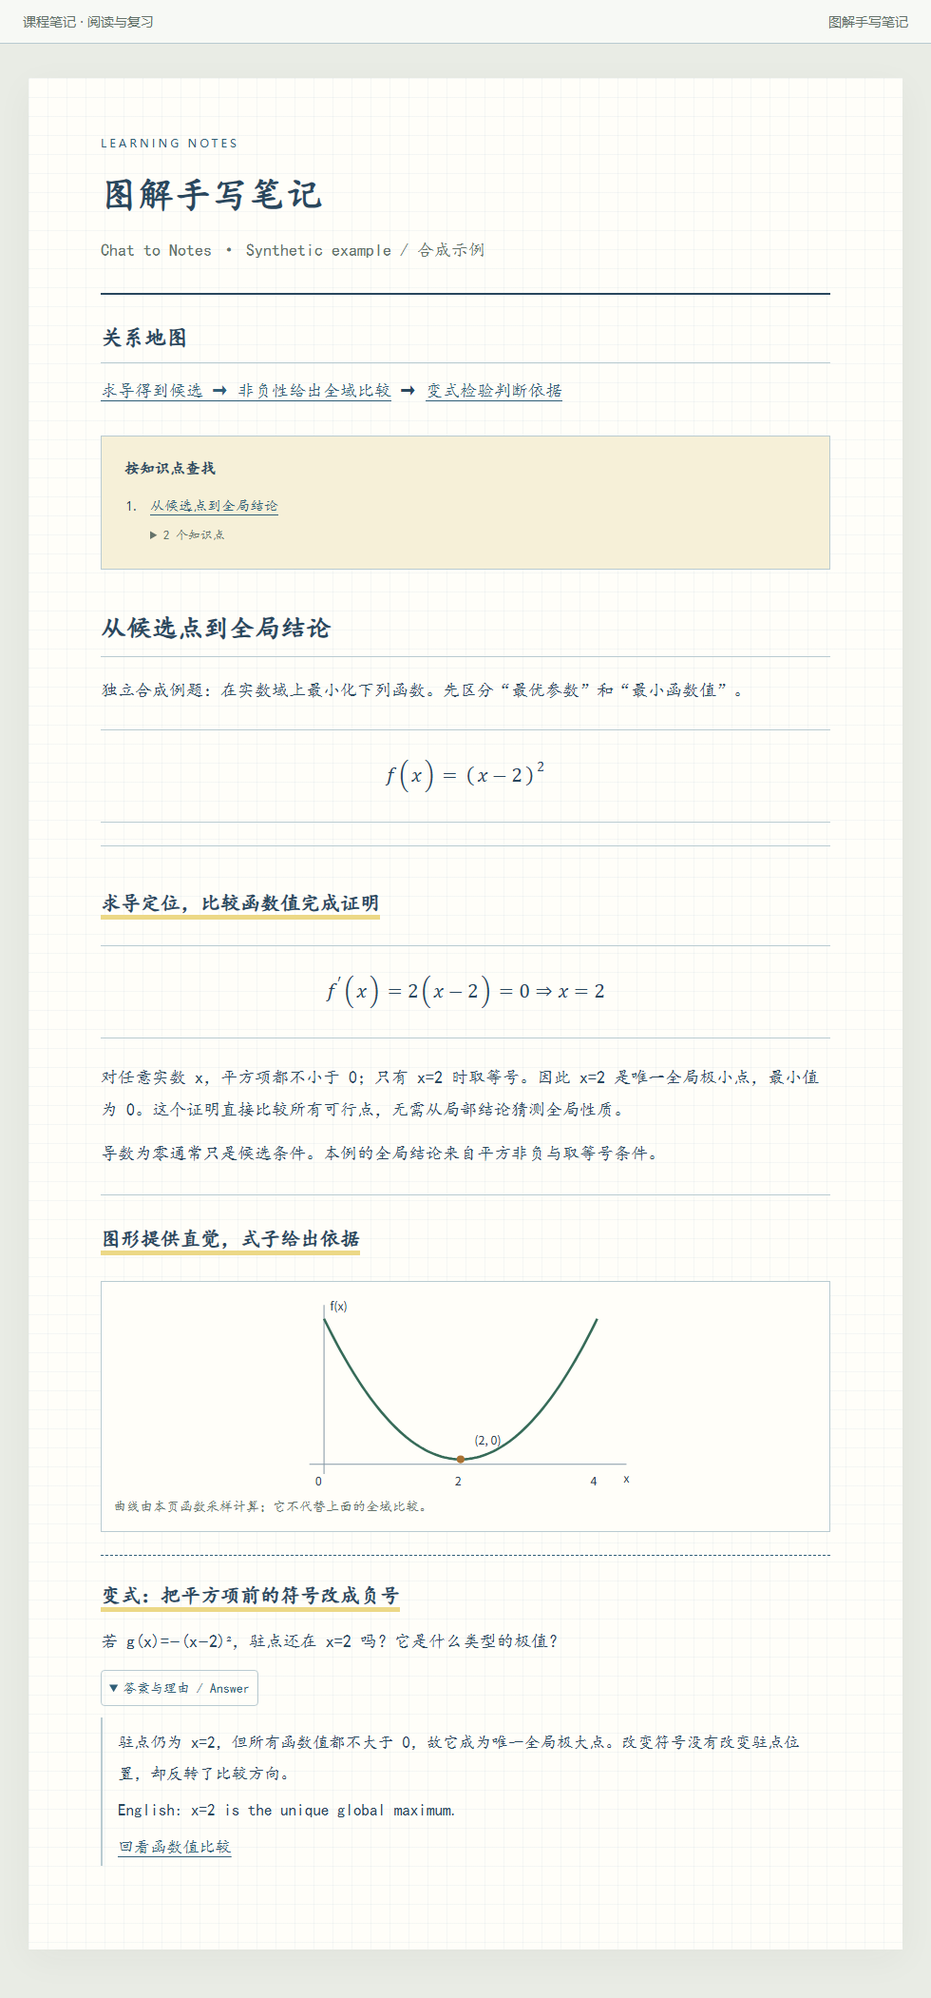
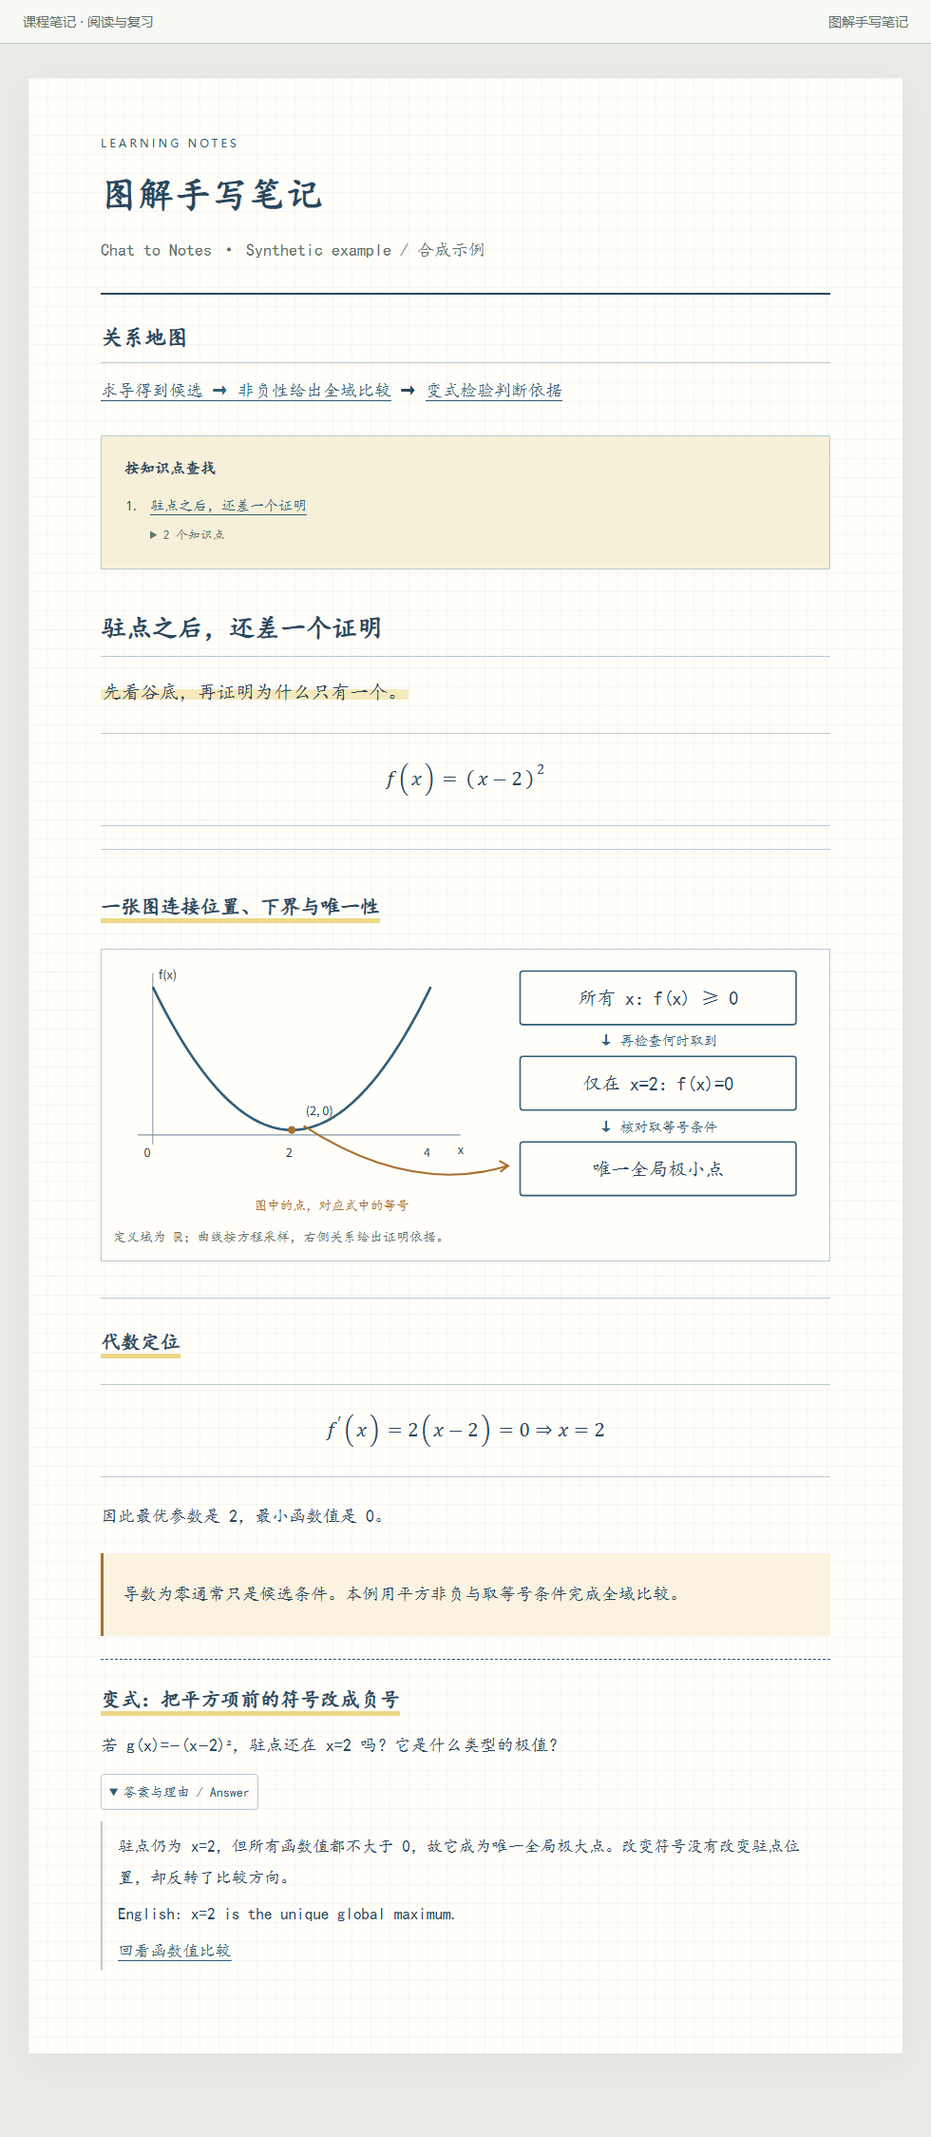
docs: showcase distinct reading structures in six style previews

diff --git a/examples/build_demo.py b/examples/build_demo.py
@@ -17,29 +17,54 @@ def formula(content):
 def example_body(style):
     model = formula('<mrow><mi>f</mi><mo>(</mo><mi>x</mi><mo>)</mo><mo>=</mo><msup><mrow><mo>(</mo><mi>x</mi><mo>−</mo><mn>2</mn><mo>)</mo></mrow><mn>2</mn></msup></mrow>')
     derivative = formula('<mrow><msup><mi>f</mi><mo>′</mo></msup><mo>(</mo><mi>x</mi><mo>)</mo><mo>=</mo><mn>2</mn><mo>(</mo><mi>x</mi><mo>−</mo><mn>2</mn><mo>)</mo><mo>=</mo><mn>0</mn><mo>⇒</mo><mi>x</mi><mo>=</mo><mn>2</mn></mrow>')
-    proof = '<p>对任意实数 x，平方项都不小于 0；只有 x=2 时取等号。因此 x=2 是唯一全局极小点，最小值为 0。这个证明直接比较所有可行点，无需从局部结论猜测全局性质。</p>'
-    body = '<h2 id="problem">从候选点到全局结论</h2><p>独立合成例题：在实数域上最小化下列函数。先区分“最优参数”和“最小函数值”。</p>' + model
-    explanation = '<h3 id="solve">求导定位，比较函数值完成证明</h3>' + derivative + proof
-    cue = '<p>梯度为零得到了什么？哪一步比较了整个定义域？</p>'
-    boundary = '<p>导数为零通常只是候选条件。本例的全局结论来自平方非负与取等号条件。</p>'
-    if style == 'cornell':
-        body += '<div class="note-unit"><aside class="cue">' + cue + '</aside><div class="note-main">' + explanation + '</div><div class="note-summary">' + boundary + '</div></div>'
-    elif style == 'outline':
-        body += '<div class="outline-unit">' + explanation + boundary + '</div>'
-    elif style == 'annotated':
-        body += '<div class="annotated-example"><div class="example-steps">' + explanation + '</div><aside class="margin-note">' + boundary + '</aside></div>'
-    elif style == 'sketch':
-        body += '<div class="visual-explanation">' + explanation + boundary + '</div>'
-    else:
-        body += explanation + '<div class="caution">' + boundary + '</div>'
+    proof = '<p>对任意实数 x，平方项都不小于 0；只有 x=2 时取等号。因此 x=2 是唯一全局极小点，最小值为 0。</p>'
+    boundary = '<p>导数为零通常只是候选条件。本例用平方非负与取等号条件完成全域比较。</p>'
     points = ' '.join(f'{40 + x * 70:.2f},{170 - 36 * (x - 2)**2:.2f}' for x in [i / 25 for i in range(101)])
-    body += '<h3 id="geometry">图形提供直觉，式子给出依据</h3>'
-    body += f'''<figure><svg viewBox="0 0 370 205" role="img" aria-label="Parabola f(x)=(x-2)^2, with its minimum at x=2" style="display:block;width:380px;margin:auto">
+    curve = f'''<svg viewBox="0 0 370 205" role="img" aria-label="Parabola f(x)=(x-2)^2, with its minimum at x=2" style="display:block;width:340px;margin:auto">
 <path d="M25 175H350 M40 185V12" fill="none" stroke="#8598a6"/>
-<polyline points="{points}" fill="none" stroke="#366b58" stroke-width="2.5"/>
+<polyline points="{points}" fill="none" stroke="var(--accent)" stroke-width="2.5"/>
 <circle cx="180" cy="170" r="4" fill="#a97131"/>
 <g font-size="12" font-family="sans-serif" fill="#26364a"><text x="174" y="197">2</text><text x="31" y="197">0</text><text x="313" y="197">4</text><text x="347" y="194">x</text><text x="46" y="18">f(x)</text><text x="194" y="155">(2, 0)</text></g></svg>
-<figcaption>曲线由本页函数采样计算；它不代替上面的全域比较。</figcaption></figure>'''
+'''
+    figure = '<h3 id="geometry">几何核对</h3><figure>' + curve + '<figcaption>曲线由函数采样计算；谷底位置与代数结果一致。</figcaption></figure>'
+    title = '<h2 id="problem">驻点之后，还差一个证明</h2>'
+    if style == 'cornell':
+        body = title + '<p class="source-label">复习方法：遮住右栏，用左栏问题重建推导。</p>'
+        body += '<div class="note-unit"><aside class="cue"><strong>01 · 求什么？</strong><p>参数与评分有什么区别？</p></aside><div class="note-main"><strong>先分清问题</strong><p>在实数域上最小化 f。x 是可选参数，f(x) 是比较方案的评分。</p>' + model + '</div></div>'
+        body += '<div class="note-unit"><aside class="cue"><strong>02 · 如何定位？</strong><p>导数为零足够吗？</p></aside><div class="note-main"><h3 id="solve">先求候选点</h3>' + derivative + '<p>得到 x=2，此时还没有完成极值判定。</p></div></div>'
+        body += '<div class="note-unit"><aside class="cue"><strong>03 · 凭何全局？</strong><p>哪个条件证明唯一？</p></aside><div class="note-main"><strong>比较整个定义域</strong>' + proof + '</div><div class="note-summary"><strong>回忆线索：</strong>候选点 → 全域下界 → 唯一取等号条件。</div></div>' + figure
+    elif style == 'outline':
+        body = title + '<div class="outline-unit"><h3 id="setup">1　问题与前提</h3><ol><li><strong>定义域：</strong>x ∈ ℝ，可行点没有边界。</li><li><strong>目标：</strong>找最优参数及最小函数值。' + model + '</li></ol>'
+        body += '<div class="outline-unit"><h3 id="solve">2　求解与判定</h3><ol><li><strong>候选条件</strong>' + derivative + '</li><li><strong>全局证据</strong><ul><li>下界：平方项对所有 x 非负。</li><li>取等号：仅当 x=2。</li></ul></li><li><strong>结论：</strong>x=2 是唯一全局极小点，最小值为 0。</li></ol></div>'
+        body += '<h3 id="boundary">3　使用边界</h3>' + boundary + '</div>' + figure
+    elif style == 'annotated':
+        body = title + '<p class="module-context">例题：在 ℝ 上最小化 f。左边完成解题，右边核对每步依据。</p>'
+        body += '<div class="annotated-example"><div class="example-steps"><strong>① 写清目标</strong>' + model + '</div><aside class="margin-note"><strong>↖ 对象</strong><p>x 是参数，f(x) 是评分，二者不能混写。</p></aside></div>'
+        body += '<div class="annotated-example"><div class="example-steps"><h3 id="solve">② 求驻点</h3>' + derivative + '</div><aside class="margin-note"><strong>↖ 必要条件</strong><p>得到候选位置；导数为零尚不能判定极值类型。</p></aside></div>'
+        body += '<div class="annotated-example"><div class="example-steps"><strong>③ 证明并作答</strong>' + proof + '</div><aside class="margin-note"><strong>↖ 关键一步</strong><p>“对所有 x”给出全局性；“仅当”给出唯一性。</p></aside></div>' + figure
+    elif style == 'sketch':
+        body = title + '<p class="lead"><mark>先看谷底，再证明为什么只有一个。</mark></p>' + model
+        # The graph and the proof path share a figure so their relationship is
+        # visible at a glance. Plot points still come from the same equation.
+        diagram = curve.replace('viewBox="0 0 370 205"','viewBox="0 0 710 265"').replace('width:340px','width:100%').replace('</svg>', '''
+<g fill="var(--paper)" stroke="var(--accent)" stroke-width="1.5"><rect x="410" y="10" width="278" height="54" rx="3"/><rect x="410" y="96" width="278" height="54" rx="3"/><rect x="410" y="182" width="278" height="54" rx="3"/></g>
+<g fill="var(--ink)" font-size="19" font-family="KaiTi,STKaiti,serif" text-anchor="middle"><text x="549" y="44">所有 x：f(x) ≥ 0</text><text x="549" y="130">仅在 x=2：f(x)=0</text><text x="549" y="216">唯一全局极小点</text></g>
+<g fill="var(--accent)" font-size="14" text-anchor="middle"><text x="549" y="85">↓ 再检查何时取到</text><text x="549" y="172">↓ 核对取等号条件</text></g>
+<path d="M192 166Q300 236 398 206" fill="none" stroke="#a97131" stroke-width="2"/><path d="M389 201L398 206L390 212" fill="none" stroke="#a97131" stroke-width="2"/>
+<text x="220" y="251" text-anchor="middle" fill="#a97131" font-size="13" font-family="KaiTi,STKaiti,serif">图中的点，对应式中的等号</text></svg>''')
+        body += '<div class="visual-explanation"><h3 id="geometry">一张图连接位置、下界与唯一性</h3><figure>' + diagram + '<figcaption>定义域为 ℝ；曲线按方程采样，右侧关系给出证明依据。</figcaption></figure></div>'
+        body += '<h3 id="solve">代数定位</h3>' + derivative + '<p>因此最优参数是 2，最小函数值是 0。</p><div class="caution">' + boundary + '</div>'
+    elif style == 'handwritten':
+        body = title + '<p class="lead">先记住：<mark>找到驻点，还要说明它为什么最好。</mark></p>'
+        body += '<p>题目是在实数域上最小化下面的函数。x 是我们要找的参数，f(x) 是它的评分。</p>' + model
+        body += '<h3 id="solve">第一步，求出候选位置</h3>' + derivative
+        body += '<p>到这里先别急着写“最小”。接着看原式：<mark>平方项永远非负</mark>，而 x=2 恰好让它等于零。</p>'
+        body += '<div class="worked-example"><strong>所以，答案要分开写</strong><p>最优参数 x*=2；最小函数值 f(x*)=0。</p><p>只有 x=2 能取到这个下界，因此全局极小点是唯一的。</p></div>' + figure
+    else:
+        body = title + '<p class="module-context">目标：在 x ∈ ℝ 上确定最优参数与最小函数值。</p>' + model
+        body += '<h3 id="solve">计算候选点</h3>' + derivative
+        body += '<table><thead><tr><th>判定事项</th><th>依据</th><th>结论</th></tr></thead><tbody><tr><td>候选位置</td><td>一阶导数为零</td><td>x=2</td></tr><tr><td>全局最小值</td><td>对所有 x，f(x)≥0</td><td>下界为 0</td></tr><tr><td>唯一性</td><td>仅在 x=2 取等号</td><td>唯一全局极小点</td></tr></tbody></table>'
+        body += '<div class="question"><strong>结果</strong><p>最优参数为 2；最小函数值为 0。</p></div><p class="source-label">适用边界：驻点方程负责定位，全局结论由函数值比较建立。</p>' + figure
     body += '''<div class="retrieval"><h3 id="practice-review">变式：把平方项前的符号改成负号</h3>
 <p>若 g(x)=−(x−2)²，驻点还在 x=2 吗？它是什么类型的极值？</p>
 <details class="answer"><summary>答案与理由 / Answer</summary><div class="answer-body"><p>驻点仍为 x=2，但所有函数值都不大于 0，故它成为唯一全局极大点。改变符号没有改变驻点位置，却反转了比较方向。</p><p>English: x=2 is the unique global maximum.</p><a href="#solve">回看函数值比较</a></div></details></div>'''

diff --git a/examples/capture_previews.py b/examples/capture_previews.py
@@ -1,4 +1,4 @@
-"""Capture actual Skill HTML without replacing its typography or layout CSS."""
+"""Capture full Skill pages and characteristic body excerpts without CSS overrides."""
 import argparse
 import base64
 from pathlib import Path
@@ -34,15 +34,41 @@ with tempfile.TemporaryDirectory(prefix='notes-previews-') as temporary:
             browser.evaluate('(async()=>{await new Promise(r=>requestAnimationFrame(()=>requestAnimationFrame(r)));})()')
             data = browser.call('Page.captureScreenshot', {'format':'png','captureBeyondViewport':True})['data']
             (args.output_dir / (style + '.png')).write_bytes(base64.b64decode(data))
+            # Show the style-specific explanation, not identical page furniture.
+            # The visual style includes its diagram; the other excerpts end
+            # before their shared geometric cross-check. Full pages remain linked.
+            clip = browser.evaluate('''(()=>{
+                const sheet=document.querySelector('.sheet').getBoundingClientRect();
+                const article=document.querySelector('article').getBoundingClientRect();
+                const stop=document.getElementById(document.documentElement.dataset.style==='sketch'?'practice-review':'geometry').getBoundingClientRect();
+                const top=article.top+scrollY-12;
+                return {x:sheet.left+38,y:top,width:sheet.width-76,height:stop.top+scrollY-top-12,scale:1};
+            })()''')
+            if clip['height'] <= 0:
+                raise RuntimeError('Missing or reversed showcase bounds for ' + style)
+            data = browser.call('Page.captureScreenshot', {'format':'png','captureBeyondViewport':True,'clip':clip})['data']
+            (args.output_dir / (style + '-detail.png')).write_bytes(base64.b64decode(data))
 
-sheet = Image.new('RGB', (1500, 1800), '#e9edf0')
+captions = {
+    'cornell': ('CORNELL CUES', 'Recall questions / Full explanations / Summary'),
+    'outline': ('HIERARCHICAL OUTLINE', 'Nested logic / Numbered steps / Explicit conditions'),
+    'annotated': ('ANNOTATED EXAMPLE', 'Solution on the left / Reasons on the right'),
+    'sketch': ('VISUAL HANDWRITTEN', 'Graph / Proof path / Handwritten emphasis'),
+    'handwritten': ('CLASSIC HANDWRITTEN', 'Calligraphy / Warm dotted paper / Continuous prose'),
+    'electronic': ('FORMAL DIGITAL', 'Sans-serif type / Evidence table / White paper'),
+}
+sheet = Image.new('RGB', (1800, 2460), '#e9edf0')
 draw = ImageDraw.Draw(sheet)
-font = ImageFont.load_default(size=20)
+font = ImageFont.load_default(size=30)
+small = ImageFont.load_default(size=19)
 for i, style in enumerate(STYLES):
-    picture = Image.open(args.output_dir / (style + '.png'))
-    picture.thumbnail((470, 835))
-    x, y = (i % 3) * 500 + 15, (i // 3) * 900 + 50
-    sheet.paste(picture, (x + (470 - picture.width)//2, y))
-    draw.text((x, y - 35), f'{i+1:02}  {style}', font=font, fill='#243044')
+    picture = Image.open(args.output_dir / (style + '-detail.png'))
+    picture.thumbnail((844, 685))
+    x, y = (i % 2) * 900 + 28, (i // 2) * 820 + 108
+    draw.rectangle((x,y,x+844,y+685),fill='#ffffff')
+    sheet.paste(picture, (x + (844 - picture.width)//2, y))
+    heading,description=captions[style]
+    draw.text((x, y - 84), f'{i+1:02}  {heading}', font=font, fill='#243044')
+    draw.text((x, y - 42), description, font=small, fill='#526578')
 sheet.save(args.output_dir / 'styles-overview.png')
 print(args.output_dir.resolve())

diff --git a/README.en.md b/README.en.md
@@ -9,7 +9,9 @@
 
 This repository contains a Codex Skill, HTML templates, and local Python helpers. It supports mathematical derivations, worked code examples, study material, and technical discussions. Slides are optional. It adds no browser extension, backend service, or separate model API; authoring still uses the model and quota of the host agent.
 
-![Six note styles rendered from the same synthetic example using the actual Skill templates](docs/images/styles-overview.png)
+![Six body excerpts showing recall cues, nested outlines, step annotations, visual proof, calligraphic prose, and formal evidence tables](docs/images/styles-overview.png)
+
+The overview focuses on characteristic body excerpts and omits shared headers and navigation. All six explain the same synthetic math problem through different reading structures. Click a style below for its full-page screenshot.
 
 ## Install and use
 
@@ -36,12 +38,12 @@ See [Usage](docs/usage.md) for manual installation, dependencies, CLI commands, 
 
 | Style | ID | Intended use |
 |---|---|---|
-| Cornell cues | `cornell` | Recall prompts beside full explanations |
-| Hierarchical outline | `outline` | Concepts and reasoning dependencies |
-| Annotated worked examples | `annotated` | Executable steps alongside their justification |
-| Visual handwritten | `sketch` | Diagrams and nearby explanations on graph paper |
-| Classic handwritten | `handwritten` | Calligraphic font, warm paper, continuous reading |
-| Formal digital | `electronic` | Sans-serif type, white paper, clear hierarchy |
+| [Cornell cues](docs/images/cornell.png) | `cornell` | Three recall prompts aligned with explanations and a summary |
+| [Hierarchical outline](docs/images/outline.png) | `outline` | Nested and numbered prerequisites, steps, and proof evidence |
+| [Annotated worked examples](docs/images/annotated.png) | `annotated` | Each solution step aligned with its conditions and justification |
+| [Visual handwritten](docs/images/sketch.png) | `sketch` | A graph connected to the proof path on graph paper |
+| [Classic handwritten](docs/images/handwritten.png) | `handwritten` | Calligraphic prose, dotted warm paper, highlighted reasoning |
+| [Formal digital](docs/images/electronic.png) | `electronic` | Sans-serif type, white paper, and an evidence/comparison table |
 
 The style is selected before authoring and stays fixed from HTML to PDF. Changing it creates a new document for review. There is no runtime theme switch. Local fonts affect appearance; typography is not pixel-identical across operating systems.
 

diff --git a/README.md b/README.md
@@ -9,7 +9,9 @@
 
 这是一个 Codex Skill，包含整理规则、HTML 模板和本地 Python 工具。适用于学习笔记、数学推导、代码例题与技术讨论；课件可选。无需浏览器扩展、后端服务或额外模型 API。内容整理使用运行 Skill 的模型，仍会消耗该环境的模型额度。
 
-![六种笔记风格，使用同一份公开合成数学材料，由实际 Skill 模板渲染](docs/images/styles-overview.png)
+![六种风格的正文特写：康奈尔回忆栏、分层大纲、逐步旁批、图形证明、经典手写与规范表格](docs/images/styles-overview.png)
+
+总览截取最能体现各风格特点的正文区域，省略共同的页头和目录。六种示例围绕同一道合成数学题组织；[下表中的风格名称](#六种风格)链接到完整页面截图。
 
 ## 为什么使用它
 
@@ -50,12 +52,12 @@
 
 | 风格 | 稳定 ID | 适用方式 |
 |---|---|---|
-| [康奈尔线索](docs/images/cornell.png) | `cornell` | 左栏回忆问题，右栏完整讲解 |
-| [层级大纲](docs/images/outline.png) | `outline` | 按概念和推理依赖分层 |
-| [例题与旁批](docs/images/annotated.png) | `annotated` | 完整例题配关键步骤依据 |
-| [图解手写](docs/images/sketch.png) | `sketch` | 方格纸、图文邻近、关系可视化 |
-| [经典手写](docs/images/handwritten.png) | `handwritten` | 楷体、浅色纸张、通栏讲解 |
-| [规范风](docs/images/electronic.png) | `electronic` | 规范字体、白底、清晰层级 |
+| [康奈尔线索](docs/images/cornell.png) | `cornell` | 三组回忆问题与讲解逐行对应，页底收束证明线索 |
+| [层级大纲](docs/images/outline.png) | `outline` | 从问题到候选再到全局证据，以编号和嵌套层级展开 |
+| [例题与旁批](docs/images/annotated.png) | `annotated` | 每步解题与旁侧的条件、理由一一对应 |
+| [图解手写](docs/images/sketch.png) | `sketch` | 曲线直接连到证明关系，配方格纸与手写强调 |
+| [经典手写](docs/images/handwritten.png) | `handwritten` | 楷体、暖色点阵纸、重点划线与连续讲解 |
+| [规范风](docs/images/electronic.png) | `electronic` | 白底无衬线字体，按“事项—依据—结论”核对证据 |
 
 新文档先选择风格；已指定或继续同一份文档时不重复询问。HTML 没有风格切换按钮。换风格生成新版本，PDF 不临时改风格。字体依赖本地环境，楷体不可用时会回退；不同机器不保证像素完全一致。
 

diff --git a/docs/usage.md b/docs/usage.md
@@ -107,7 +107,7 @@ With the PDF environment installed, render screenshots of those documents:
 python examples/capture_previews.py --html-dir outputs/demo --output-dir outputs/previews
 ```
 
-This also requires Pillow (`python -m pip install Pillow`) for the contact sheet. Pillow is a preview-development dependency, not part of note authoring or PDF export. Preview filenames match the stable style IDs. The sample images in `docs/images/` are checked-in documentation assets; generated notes and PDFs stay ignored.
+This also requires Pillow (`python -m pip install Pillow`) for the contact sheet. Pillow is a preview-development dependency, not part of note authoring or PDF export. `<style>.png` is a complete page; `<style>-detail.png` is the characteristic body excerpt. The two-column overview combines those excerpts with reading-method captions, omitting shared page headers and navigation. No preview-only typography or theme CSS is injected. The sample images in `docs/images/` are checked-in documentation assets; generated notes and PDFs stay ignored.
 
 ## Checks
 

diff --git a/docs/validation.md b/docs/validation.md
@@ -18,6 +18,12 @@ Tests run locally and through the [Checks workflow](https://github.com/haoran316
 
 The CI matrix includes Python 3.10/3.12 on Windows and Ubuntu for renderer checks, plus an Ubuntu browser/PDF job. An environment listed in a workflow is not a passing result until its run succeeds.
 
+## Style showcase update
+
+The public example now uses each style's intended structure: aligned recall rows, nested reasoning, per-step annotations, a graph linked to a proof path, continuous handwritten explanation, or a formal evidence table. The mathematical task and conclusion stay the same.
+
+README thumbnails are labeled body excerpts cropped from the actual rendered HTML; full screenshots remain available. Cropping removes shared navigation rather than injecting alternate presentation CSS. The same renderer and browser/PDF suites also cover these richer examples.
+
 ## What is not proved
 
 - That a model's explanation is complete or mathematically correct.

diff --git a/CHANGELOG.md b/CHANGELOG.md
@@ -2,6 +2,11 @@
 
 ## Unreleased
 
+### Documentation previews
+
+- Make the six style examples demonstrate distinct reading structures around the same mathematical problem.
+- Replace tiny full-document thumbnails with labeled body excerpts; retain links to complete screenshots and reproducible capture commands.
+
 ### Initial public repository
 
 - Import the existing chat-to-notes Skill with six generation-time styles and fixed-style HTML/PDF output.
